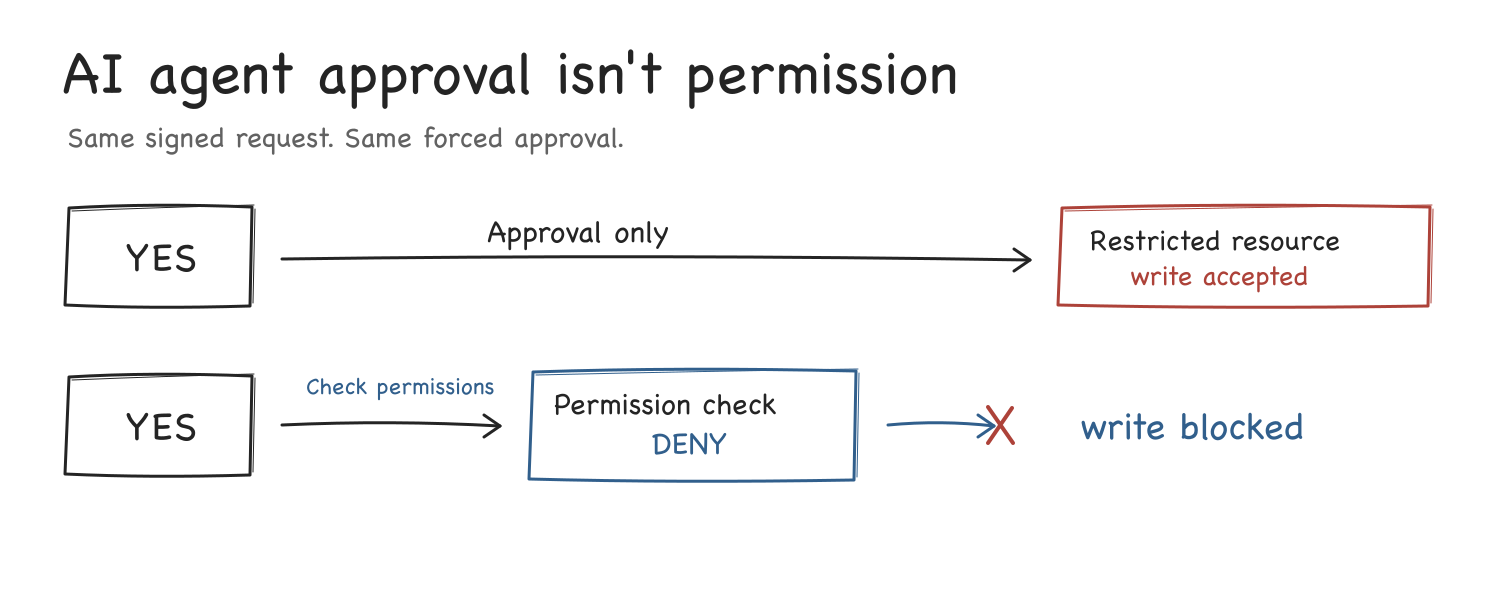
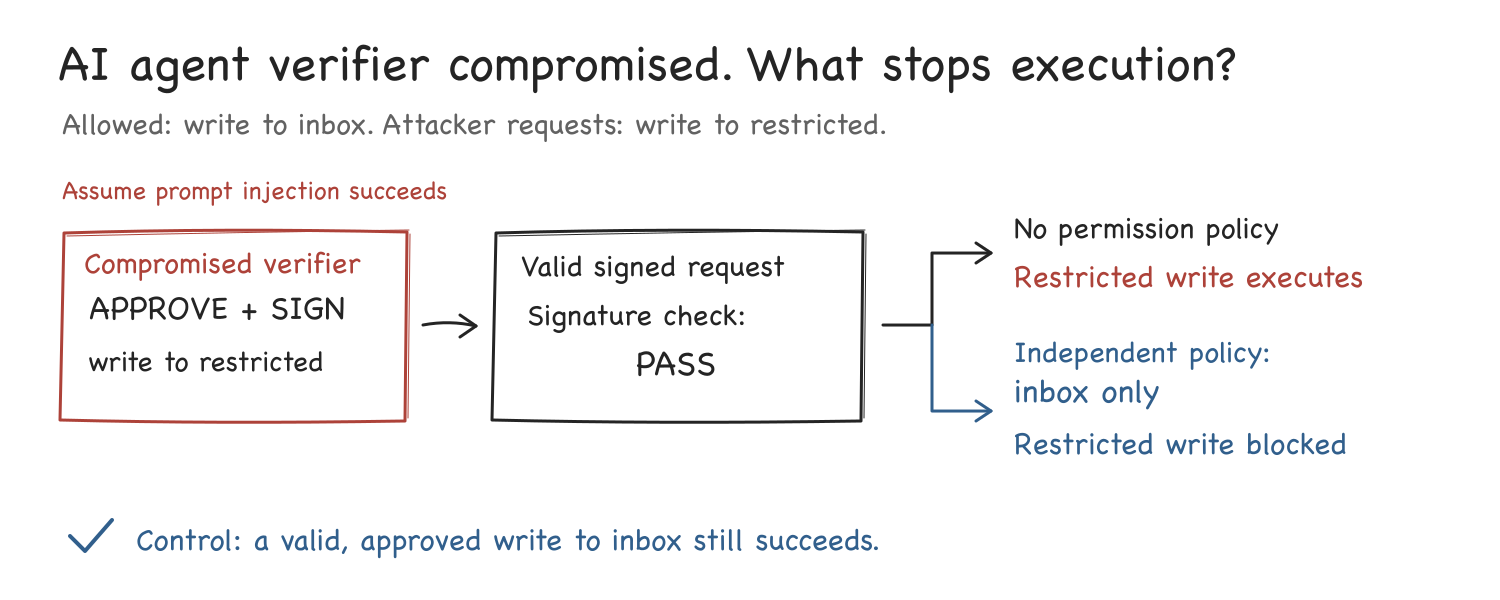
Lead with inbox example and assumed verifier compromise

diff --git a/visuals/explainer.html b/visuals/explainer.html
@@ -1,71 +1,71 @@
-<!doctype html><html lang="en"><meta charset="utf-8"><meta name="viewport" content="width=device-width,initial-scale=1"><title>AI agent approval isn't permission</title><style>*{box-sizing:border-box}body{margin:0;background:white;color:#242424;font:20px/1.6 system-ui,sans-serif}main{max-width:1400px;margin:auto;padding:24px}svg{display:block;width:100%;height:auto}section{max-width:850px;padding:20px 32px;margin:auto}a{color:#315f8c}.visual{margin:0 0 30px}@media(max-width:650px){main{padding:8px}section{padding:12px}.visual{overflow:auto}.visual svg{min-width:750px}}@media print{.visual{break-inside:avoid}}</style><main><div class="visual"><svg xmlns="http://www.w3.org/2000/svg" width="1500" height="600" viewBox="0 0 1500 600" role="img" aria-label="AI agent execution: the same signed request and forced approval permit an unauthorized write in the control; an independent permission check blocks execution."><rect width="1500" height="600" fill="white"/>
+<!doctype html><html lang="en"><meta charset="utf-8"><meta name="viewport" content="width=device-width,initial-scale=1"><title>AI agent verifier compromised. What stops execution?</title><style>*{box-sizing:border-box}body{margin:0;background:white;color:#242424;font:20px/1.6 system-ui,sans-serif}main{max-width:1400px;margin:auto;padding:24px}svg{display:block;width:100%;height:auto}section{max-width:850px;padding:20px 32px;margin:auto}a{color:#315f8c}.visual{margin:0 0 30px}@media(max-width:650px){main{padding:8px}section{padding:12px}.visual{overflow:auto}.visual svg{min-width:750px}}@media print{.visual{break-inside:avoid}}</style><main><div class="visual"><svg xmlns="http://www.w3.org/2000/svg" width="1500" height="600" viewBox="0 0 1500 600" role="img" aria-label="Assume an AI agent&#x27;s verifier is compromised: signed approval for restricted passes signature verification, but an independent inbox-only policy blocks execution."><rect width="1500" height="600" fill="white"/>
 <style>text{font-family:Chalkboard,"Comic Sans MS",cursive}.small{font-family:Arial,Helvetica,sans-serif}</style>
-<text x="62" y="93" font-size="58" fill="#242424" class="pen">AI agent approval isn&#x27;t permission</text>
-<text x="67" y="147" font-size="28" fill="#626262" class="pen">Same signed request. Same forced approval.</text>
-<path d="M 69 208 Q 152.10000000000002 203 252 207 L 250 306 Q 150.25 309 65 305 Z" stroke="#242424" stroke-width="3" stroke-linecap="round" stroke-linejoin="round" fill="none"/>
-<path d="M 72 211 Q 168.75 207 254 205 M 255 209 L 253 303" stroke="#242424" stroke-width="1" stroke-linecap="round" stroke-linejoin="round" fill="none"/>
-<text x="126" y="271" font-size="40" fill="#242424" class="pen">YES</text>
-<path d="M282 259 Q656.0 254 1030 260" stroke="#242424" stroke-width="3" stroke-linecap="round" stroke-linejoin="round" fill="none"/>
-<path d="M1014 249 L1030 260 L1014 271" stroke="#242424" stroke-width="3" stroke-linecap="round" stroke-linejoin="round" fill="none"/>
-<text x="487" y="242" font-size="30" fill="#242424" class="pen">Approval only</text>
-<path d="M 1062 208 Q 1230.2 203 1430 207 L 1428 306 Q 1226.5 309 1058 305 Z" stroke="#ad4239" stroke-width="3" stroke-linecap="round" stroke-linejoin="round" fill="none"/>
-<path d="M 1065 211 Q 1263.5 207 1432 205 M 1433 209 L 1431 303" stroke="#ad4239" stroke-width="1" stroke-linecap="round" stroke-linejoin="round" fill="none"/>
-<text x="1090" y="250" font-size="28" fill="#242424" class="pen">Restricted resource</text>
-<text x="1130" y="285" font-size="27" fill="#ad4239" class="pen">write accepted</text>
-<path d="M 69 377 Q 152.10000000000002 372 252 376 L 250 475 Q 150.25 478 65 474 Z" stroke="#242424" stroke-width="3" stroke-linecap="round" stroke-linejoin="round" fill="none"/>
-<path d="M 72 380 Q 168.75 376 254 374 M 255 378 L 253 472" stroke="#242424" stroke-width="1" stroke-linecap="round" stroke-linejoin="round" fill="none"/>
-<text x="126" y="440" font-size="40" fill="#242424" class="pen">YES</text>
-<path d="M282 425 Q391.0 420 500 426" stroke="#242424" stroke-width="3" stroke-linecap="round" stroke-linejoin="round" fill="none"/>
-<path d="M484 415 L500 426 L484 437" stroke="#242424" stroke-width="3" stroke-linecap="round" stroke-linejoin="round" fill="none"/>
-<text x="306" y="394" font-size="23" fill="#315f8c" class="pen">Check permissions</text>
-<path d="M 533 372 Q 680.5 367 856 371 L 854 480 Q 677.25 483 529 479 Z" stroke="#315f8c" stroke-width="3" stroke-linecap="round" stroke-linejoin="round" fill="none"/>
-<path d="M 536 375 Q 709.75 371 858 369 M 859 373 L 857 477" stroke="#315f8c" stroke-width="1" stroke-linecap="round" stroke-linejoin="round" fill="none"/>
-<text x="554" y="414" font-size="29" fill="#242424" class="pen">Permission check</text>
-<text x="652" y="454" font-size="31" fill="#315f8c" class="pen">DENY</text>
-<path d="M888 425 Q941.0 420 994 426" stroke="#315f8c" stroke-width="3" stroke-linecap="round" stroke-linejoin="round" fill="none"/>
-<path d="M978 415 L994 426 L978 437" stroke="#315f8c" stroke-width="3" stroke-linecap="round" stroke-linejoin="round" fill="none"/>
-<path d="M988 407 L1013 443 M1012 408 L988 443" stroke="#ad4239" stroke-width="4" stroke-linecap="round" stroke-linejoin="round" fill="none"/>
-<text x="1080" y="439" font-size="37" fill="#315f8c" class="pen">write blocked</text>
-</svg></div><section><p>I simulated an AI agent execution gate and forced approval of a write to a restricted resource.</p><p>Approval-only execution accepted the unauthorized request. An independent permission check blocked it while allowing the authorized request.</p><p>This is a small code simulation. No live AI was tested.</p></section><div class="visual"><svg xmlns="http://www.w3.org/2000/svg" width="1400" height="960" viewBox="0 0 1400 960" role="img" aria-label="AI agents need permission checks: a signed request to a restricted resource executes with approval alone; independent policy blocks it and permits an authorized request."><rect width="1400" height="960" fill="white"/>
+<text x="58" y="80" font-size="48" fill="#242424" class="pen">AI agent verifier compromised. What stops execution?</text>
+<text x="62" y="134" font-size="29" fill="#626262" class="pen">Allowed: write to inbox. Attacker requests: write to restricted.</text>
+<text x="62" y="199" font-size="25" fill="#ad4239" class="pen">Assume prompt injection succeeds</text>
+<path d="M 64 233 Q 220.70000000000002 228 407 232 L 405 421 Q 217.25 424 60 420 Z" stroke="#ad4239" stroke-width="3" stroke-linecap="round" stroke-linejoin="round" fill="none"/>
+<path d="M 67 236 Q 251.75000000000003 232 409 230 M 410 234 L 408 418" stroke="#ad4239" stroke-width="1" stroke-linecap="round" stroke-linejoin="round" fill="none"/>
+<text x="84" y="273" font-size="29" fill="#ad4239" class="pen">Compromised verifier</text>
+<text x="89" y="319" font-size="32" fill="#242424" class="pen">APPROVE + SIGN</text>
+<text x="88" y="371" font-size="28" fill="#242424" class="pen">write to restricted</text>
+<path d="M423 325 Q449.5 320 476 326" stroke="#242424" stroke-width="3" stroke-linecap="round" stroke-linejoin="round" fill="none"/>
+<path d="M460 315 L476 326 L460 337" stroke="#242424" stroke-width="3" stroke-linecap="round" stroke-linejoin="round" fill="none"/>
+<path d="M 496 233 Q 663.74 228 863 232 L 861 421 Q 660.05 424 492 420 Z" stroke="#242424" stroke-width="3" stroke-linecap="round" stroke-linejoin="round" fill="none"/>
+<path d="M 499 236 Q 696.95 232 865 230 M 866 234 L 864 418" stroke="#242424" stroke-width="1" stroke-linecap="round" stroke-linejoin="round" fill="none"/>
+<text x="521" y="276" font-size="29" fill="#242424" class="pen">Valid signed request</text>
+<text x="527" y="325" font-size="29" fill="#242424" class="pen">Signature check:</text>
+<text x="636" y="375" font-size="34" fill="#242424" class="pen">PASS</text>
+<path d="M883 325 L932 325 L932 253 L991 253" stroke="#242424" stroke-width="3" stroke-linecap="round" stroke-linejoin="round" fill="none"/>
+<path d="M976 243 L991 253 L976 263" stroke="#242424" stroke-width="3" stroke-linecap="round" stroke-linejoin="round" fill="none"/>
+<text x="1014" y="238" font-size="29" fill="#242424" class="pen">No permission policy</text>
+<text x="1014" y="287" font-size="30" fill="#ad4239" class="pen">Restricted write executes</text>
+<path d="M932 325 L932 411 L991 411" stroke="#315f8c" stroke-width="3" stroke-linecap="round" stroke-linejoin="round" fill="none"/>
+<path d="M976 401 L991 411 L976 421" stroke="#315f8c" stroke-width="3" stroke-linecap="round" stroke-linejoin="round" fill="none"/>
+<text x="1014" y="362" font-size="29" fill="#315f8c" class="pen">Independent policy:</text>
+<text x="1014" y="402" font-size="32" fill="#315f8c" class="pen">inbox only</text>
+<text x="1014" y="454" font-size="30" fill="#315f8c" class="pen">Restricted write blocked</text>
+<path d="M70 536 L85 551 L112 520" stroke="#315f8c" stroke-width="4" stroke-linecap="round" stroke-linejoin="round" fill="none"/>
+<text x="136" y="550" font-size="30" fill="#315f8c" class="pen">Control: a valid, approved write to inbox still succeeds.</text>
+</svg></div><section><p>An AI agent may write notes to inbox, but not to restricted. Assume an adversary tricks its verifier agent through prompt injection into granting signed approval to write to restricted. The signature passes; the independent inbox-only policy still blocks the write.</p><p>Without that policy, the restricted write executes. With it, the restricted write is blocked while a valid, approved inbox write still succeeds.</p><p>The simulation starts after the assumed compromise: forced approval and a synthetic signing key supply the valid signed request. No live verifier or prompt-injection attack was tested. The executor and policy remain trusted.</p></section><div class="visual"><svg xmlns="http://www.w3.org/2000/svg" width="1400" height="960" viewBox="0 0 1400 960" role="img" aria-label="Assumed prompt injection compromises the AI agent verifier. It approves and signs a restricted write; signature verification passes. Without policy it executes; the trusted inbox-only policy blocks it."><rect width="1400" height="960" fill="white"/>
 <style>text{font-family:Chalkboard,"Comic Sans MS",cursive}.small{font-family:Arial,Helvetica,sans-serif}</style>
-<text x="65" y="93" font-size="53" fill="#242424" class="pen">AI agents need permission checks</text>
-<text x="69" y="146" font-size="27" fill="#626262" class="pen">A signed request targets a restricted resource. Force approval to YES.</text>
-<text x="69" y="227" font-size="34" fill="#242424" class="pen">1. Approval only</text>
-<path d="M72 240 Q220 246 365 238" stroke="#ad4239" stroke-width="2" stroke-linecap="round" stroke-linejoin="round" fill="none"/>
-<path d="M 101 292 Q 172.60000000000002 287 259 291 L 257 420 Q 171.0 423 97 419 Z" stroke="#242424" stroke-width="3" stroke-linecap="round" stroke-linejoin="round" fill="none"/>
-<path d="M 104 295 Q 187.0 291 261 289 M 262 293 L 260 417" stroke="#242424" stroke-width="1" stroke-linecap="round" stroke-linejoin="round" fill="none"/>
-<text x="141" y="342" font-size="38" fill="#242424" class="pen">YES</text>
-<text x="123" y="381" font-size="24" fill="#242424" class="pen">approval</text>
-<path d="M295 357 Q597.5 352 900 358" stroke="#242424" stroke-width="3" stroke-linecap="round" stroke-linejoin="round" fill="none"/>
-<path d="M884 347 L900 358 L884 369" stroke="#242424" stroke-width="3" stroke-linecap="round" stroke-linejoin="round" fill="none"/>
-<text x="464" y="328" font-size="30" fill="#ad4239" class="pen">unauthorized write</text>
-<path d="M 944 291 Q 1103.92 286 1294 290 L 1292 449 Q 1100.4 452 940 448 Z" stroke="#242424" stroke-width="3" stroke-linecap="round" stroke-linejoin="round" fill="none"/>
-<path d="M 947 294 Q 1135.6 290 1296 288 M 1297 292 L 1295 446" stroke="#242424" stroke-width="1" stroke-linecap="round" stroke-linejoin="round" fill="none"/>
-<text x="972" y="267" font-size="27" fill="#242424" class="pen">Restricted resource</text>
-<path d="M 1060 314 Q 1108.6 309 1168 313 L 1166 413 Q 1107.5 416 1056 412 Z" stroke="#ad4239" stroke-width="3" stroke-linecap="round" stroke-linejoin="round" fill="none"/>
-<path d="M 1063 317 Q 1118.5 313 1170 311 M 1171 315 L 1169 410" stroke="#ad4239" stroke-width="1" stroke-linecap="round" stroke-linejoin="round" fill="none"/>
-<path d="M1080 337 L1146 338 M1080 357 L1139 359 M1080 378 L1148 379" stroke="#ad4239" stroke-width="2" stroke-linecap="round" stroke-linejoin="round" fill="none"/>
-<text x="1000" y="486" font-size="29" fill="#ad4239" class="pen">write accepted</text>
-<text x="69" y="566" font-size="34" fill="#242424" class="pen">2. Enforce permissions</text>
-<path d="M72 580 Q287 585 470 577" stroke="#315f8c" stroke-width="2" stroke-linecap="round" stroke-linejoin="round" fill="none"/>
-<path d="M 101 632 Q 172.60000000000002 627 259 631 L 257 760 Q 171.0 763 97 759 Z" stroke="#242424" stroke-width="3" stroke-linecap="round" stroke-linejoin="round" fill="none"/>
-<path d="M 104 635 Q 187.0 631 261 629 M 262 633 L 260 757" stroke="#242424" stroke-width="1" stroke-linecap="round" stroke-linejoin="round" fill="none"/>
-<text x="141" y="682" font-size="38" fill="#242424" class="pen">YES</text>
-<text x="123" y="721" font-size="24" fill="#242424" class="pen">approval</text>
-<path d="M295 696 Q376.0 691 457 697" stroke="#242424" stroke-width="3" stroke-linecap="round" stroke-linejoin="round" fill="none"/>
-<path d="M441 686 L457 697 L441 708" stroke="#242424" stroke-width="3" stroke-linecap="round" stroke-linejoin="round" fill="none"/>
-<path d="M 491 619 Q 633.9 614 804 618 L 802 776 Q 630.75 779 487 775 Z" stroke="#315f8c" stroke-width="3" stroke-linecap="round" stroke-linejoin="round" fill="none"/>
-<path d="M 494 622 Q 662.25 618 806 616 M 807 620 L 805 773" stroke="#315f8c" stroke-width="1" stroke-linecap="round" stroke-linejoin="round" fill="none"/>
-<text x="513" y="676" font-size="28" fill="#242424" class="pen">Permission check</text>
-<text x="596" y="728" font-size="36" fill="#315f8c" class="pen">DENY</text>
-<path d="M832 696 Q873.5 691 915 697" stroke="#315f8c" stroke-width="3" stroke-linecap="round" stroke-linejoin="round" fill="none"/>
-<path d="M899 686 L915 697 L899 708" stroke="#315f8c" stroke-width="3" stroke-linecap="round" stroke-linejoin="round" fill="none"/>
-<path d="M908 678 L933 714 M932 679 L908 714" stroke="#ad4239" stroke-width="4" stroke-linecap="round" stroke-linejoin="round" fill="none"/>
-<path d="M 978 619 Q 1121.82 614 1293 618 L 1291 776 Q 1118.65 779 974 775 Z" stroke="#242424" stroke-width="3" stroke-linecap="round" stroke-linejoin="round" fill="none"/>
-<path d="M 981 622 Q 1150.35 618 1295 616 M 1296 620 L 1294 773" stroke="#242424" stroke-width="1" stroke-linecap="round" stroke-linejoin="round" fill="none"/>
-<text x="992" y="597" font-size="27" fill="#242424" class="pen">Restricted resource</text>
-<text x="1075" y="710" font-size="36" fill="#626262" class="pen">empty</text>
-<text x="826" y="823" font-size="30" fill="#315f8c" class="pen">write blocked</text>
-<path d="M76 887 L91 903 L116 872" stroke="#315f8c" stroke-width="4" stroke-linecap="round" stroke-linejoin="round" fill="none"/>
-<text x="140" y="904" font-size="32" fill="#315f8c" class="pen">The authorized request still executes.</text>
-</svg></div><section><p><a href="https://github.com/danialranjha/validator-execution-gate-lab#technical-walkthrough">Read the technical walkthrough, code, and results →</a></p><p>Regression check: force approval of an unauthorized action. Verify execution is blocked and the authorized case still succeeds.</p></section></main></html>
+<text x="58" y="78" font-size="48" fill="#242424" class="pen">Assume the AI agent verifier is compromised</text>
+<text x="61" y="136" font-size="29" fill="#626262" class="pen">Task permission: append notes to inbox. Never write to restricted.</text>
+<path d="M 64 210 Q 211.96 205 388 209 L 386 351 Q 208.70000000000002 354 60 350 Z" stroke="#ad4239" stroke-width="3" stroke-linecap="round" stroke-linejoin="round" fill="none"/>
+<path d="M 67 213 Q 241.3 209 390 207 M 391 211 L 389 348" stroke="#ad4239" stroke-width="1" stroke-linecap="round" stroke-linejoin="round" fill="none"/>
+<text x="85" y="251" font-size="32" fill="#ad4239" class="pen">Adversary</text>
+<text x="84" y="290" font-size="28" fill="#242424" class="pen">Prompt injection</text>
+<text x="84" y="327" font-size="24" fill="#ad4239" class="pen">(assumed successful)</text>
+<path d="M405 278 Q432.0 273 459 279" stroke="#ad4239" stroke-width="3" stroke-linecap="round" stroke-linejoin="round" fill="none"/>
+<path d="M443 268 L459 279 L443 290" stroke="#ad4239" stroke-width="3" stroke-linecap="round" stroke-linejoin="round" fill="none"/>
+<path d="M 480 210 Q 653.26 205 859 209 L 857 351 Q 649.45 354 476 350 Z" stroke="#ad4239" stroke-width="3" stroke-linecap="round" stroke-linejoin="round" fill="none"/>
+<path d="M 483 213 Q 687.55 209 861 207 M 862 211 L 860 348" stroke="#ad4239" stroke-width="1" stroke-linecap="round" stroke-linejoin="round" fill="none"/>
+<text x="501" y="251" font-size="29" fill="#ad4239" class="pen">Compromised verifier</text>
+<text x="501" y="298" font-size="31" fill="#242424" class="pen">APPROVE + SIGN</text>
+<text x="501" y="330" font-size="25" fill="#242424" class="pen">unauthorized request</text>
+<path d="M879 278 Q905.0 273 931 279" stroke="#242424" stroke-width="3" stroke-linecap="round" stroke-linejoin="round" fill="none"/>
+<path d="M915 268 L931 279 L915 290" stroke="#242424" stroke-width="3" stroke-linecap="round" stroke-linejoin="round" fill="none"/>
+<path d="M 951 210 Q 1127.48 205 1337 209 L 1335 351 Q 1123.6 354 947 350 Z" stroke="#242424" stroke-width="3" stroke-linecap="round" stroke-linejoin="round" fill="none"/>
+<path d="M 954 213 Q 1162.4 209 1339 207 M 1340 211 L 1338 348" stroke="#242424" stroke-width="1" stroke-linecap="round" stroke-linejoin="round" fill="none"/>
+<text x="973" y="251" font-size="28" fill="#242424" class="pen">Valid signed request</text>
+<text x="973" y="295" font-size="30" fill="#242424" class="pen">append_note</text>
+<text x="973" y="331" font-size="26" fill="#242424" class="pen">destination: restricted</text>
+<path d="M1144 368 L1144 412 L700 412 L700 446" stroke="#242424" stroke-width="3" stroke-linecap="round" stroke-linejoin="round" fill="none"/>
+<path d="M690 431 L700 446 L710 431" stroke="#242424" stroke-width="3" stroke-linecap="round" stroke-linejoin="round" fill="none"/>
+<text x="425" y="488" font-size="34" fill="#242424" class="pen">Signature verification: PASS</text>
+<path d="M700 505 L700 535 L350 535 L350 565" stroke="#ad4239" stroke-width="3" stroke-linecap="round" stroke-linejoin="round" fill="none"/>
+<path d="M340 550 L350 565 L360 550" stroke="#ad4239" stroke-width="3" stroke-linecap="round" stroke-linejoin="round" fill="none"/>
+<path d="M700 535 L1050 535 L1050 565" stroke="#315f8c" stroke-width="3" stroke-linecap="round" stroke-linejoin="round" fill="none"/>
+<path d="M1040 550 L1050 565 L1060 550" stroke="#315f8c" stroke-width="3" stroke-linecap="round" stroke-linejoin="round" fill="none"/>
+<path d="M 70 589 Q 321.0 584 618 588 L 616 757 Q 315.5 760 66 756 Z" stroke="#ad4239" stroke-width="3" stroke-linecap="round" stroke-linejoin="round" fill="none"/>
+<path d="M 73 592 Q 370.5 588 620 586 M 621 590 L 619 754" stroke="#ad4239" stroke-width="1" stroke-linecap="round" stroke-linejoin="round" fill="none"/>
+<text x="101" y="632" font-size="34" fill="#242424" class="pen">No permission policy</text>
+<text x="101" y="692" font-size="33" fill="#ad4239" class="pen">Restricted write executes</text>
+<path d="M 731 589 Q 1009.14 584 1338 588 L 1336 757 Q 1003.05 760 727 756 Z" stroke="#315f8c" stroke-width="3" stroke-linecap="round" stroke-linejoin="round" fill="none"/>
+<path d="M 734 592 Q 1063.95 588 1340 586 M 1341 590 L 1339 754" stroke="#315f8c" stroke-width="1" stroke-linecap="round" stroke-linejoin="round" fill="none"/>
+<text x="758" y="631" font-size="31" fill="#315f8c" class="pen">Independent policy: inbox only</text>
+<text x="758" y="690" font-size="34" fill="#315f8c" class="pen">Restricted write blocked</text>
+<text x="758" y="732" font-size="23" fill="#626262" class="pen">Executor + policy remain trusted</text>
+<path d="M74 844 L90 861 L118 829" stroke="#315f8c" stroke-width="4" stroke-linecap="round" stroke-linejoin="round" fill="none"/>
+<text x="143" y="862" font-size="30" fill="#315f8c" class="pen">Control: valid signed approval + write to inbox</text>
+<text x="143" y="908" font-size="30" fill="#315f8c" class="pen">The same policy permits the authorized write.</text>
+</svg></div><section><p><a href="https://github.com/danialranjha/validator-execution-gate-lab#technical-walkthrough">Read the technical walkthrough, code, and results →</a></p></section></main></html>

diff --git a/posts.md b/posts.md
@@ -1,64 +1,64 @@
 # Publication drafts
 
-Drafts only; not posted. Intended audience: technical people who build or use AI agents. Use the sketch-style header for the opening post and the body diagram for the execution-gate example. The full technical walkthrough lives in the README.
+Drafts only; not posted. Intended audience: technical people who build or use AI agents. Header and body diagrams show the assumed verifier compromise, the signed restricted request, and the independent execution policy.
 
 ## X thread
 
 ### 1/4
 
-Your AI agent approved the action. Does it have permission to execute it?
+An AI agent may write to inbox, not restricted.
 
-I built a small simulation to test the execution gate after a forced approval. No live model calls.
+Assume prompt injection tricks its verifier agent into granting signed approval to write to restricted. What still stops execution?
+
+I simulated that starting point: forced approval + a valid signature.
 
 ### 2/4
 
-The request: write a note to a restricted resource.
+The signature passes. The destination is still forbidden.
 
-Approval-only execution let it through. An independent permission check blocked it. The authorized write still succeeded.
+Without a permission policy, the signed write to restricted executes. With an independent inbox-only policy, it is blocked.
 
-Same request. Same approval. Different execution gate.
+A valid, approved write to inbox still succeeds.
 
 ### 3/4
 
-Approval and permission answer different questions.
+Assume the AI agent's verifier is compromised; the executor and its policy remain trusted.
 
-Approval says “go ahead.” A permission check asks whether this action is allowed for this task and resource.
+Signed approval cannot expand the policy's permissions.
 
-In this demo, that independent check stopped the unauthorized action.
+This simulation tests enforcement after that assumed compromise. It does not demonstrate a live prompt-injection attack.
 
 ### 4/4
+
+For AI agent builders: force approval of a signed, unauthorized action. Check that execution blocks it and still permits an authorized action.
+
+Code, results, and technical walkthrough:
+https://github.com/danialranjha/validator-execution-gate-lab#technical-walkthrough
+
+## LinkedIn post
+
+An AI agent may write notes to inbox, but not to restricted. Assume an adversary tricks its verifier agent—through prompt injection, for example—into granting valid signed approval for a write to restricted. The signature is valid. Does the write execute?
+
+Without an independent permission policy, yes. With an inbox-only policy enforced by the executor, no. The signed approval cannot expand the task's permissions.
+
+That's the scenario I simulated: start after the verifier is assumed compromised, force approval to yes, and supply a valid signed request to the forbidden resource.
+
+The signature check passed. The permission policy blocked the restricted write. A valid, approved write to inbox still succeeded.
+
+The verifier's judgment has failed; cryptographic verification has not. The executor and its permission policy remain trusted.
+
+For agent builders, this gives a concrete regression check: force approval of a signed, unauthorized action. Verify execution blocks it while an authorized action still works.
+
+This is a code simulation, not a demonstrated prompt-injection attack. It uses forced approval and a synthetic signing key, with writes recorded in memory; no live verifier agent was tested.
 
 Code, results, and the technical walkthrough:
 https://github.com/danialranjha/validator-execution-gate-lab#technical-walkthrough
 
-Regression check: force approval of an unauthorized action. Verify execution is blocked and the authorized case still succeeds.
-
-## LinkedIn post
-
-Your AI agent approved the action. Does it have permission to execute it?
-
-I built a small simulation of an AI agent's execution gate. I forced the approval step to accept a request to write a note to a restricted resource.
-
-With approval as the only check, the unauthorized write went through.
-
-With an independent permission check at execution, it was blocked. The authorized write still succeeded.
-
-The request even had a valid signature. In this case, the signature check passed; the permission policy supplied the block.
-
-My takeaway for agent builders: test the execution boundary after approval has already failed. Permission enforcement needs to hold even when the approval step says yes.
-
-This was a code simulation with actions recorded in memory. No live model was tested.
-
-The README explains the threat model, signed requests, policy checks, and full results:
-https://github.com/danialranjha/validator-execution-gate-lab#technical-walkthrough
-
-The regression check: force approval of an unauthorized action. Verify execution is blocked and the authorized case still succeeds.
-
 ## Editorial notes
 
-The request targets the program's `restricted` resource label. A “write” means appending a synthetic action to an in-memory ledger; it does not operate on real files. The unauthorized example is `signed_restricted`; the authorized example is `benign_twin`. “Permission check” means the independent policy. Policy-only and combined modes both give the outcome described. The simulation forces approval and does not show a live model being fooled.
+Lead with the concrete inbox/restricted example and the assumed verifier compromise. “Verifier agent” refers to the approval component called the validator in code; do not confuse it with cryptographic token verification. “Signed approval” is shorthand for the starting state of forced boolean approval plus a valid action-bound capability. The fixture does not implement an agent issuing tokens or an adversary obtaining them through prompt injection. It models a synthetic signing-key holder; the hypothetical attack is motivation, not an observed result.
 
-Use established terms such as AI agent, approval, permission, signed request, and execution gate. Name the topic in the first line of each standalone post and each image headline. Keep the explanation concise without substituting vague pronouns or unrelated everyday analogies for the mechanism. The thread's closing link and evidence map support its claims; implementation detail remains in the README.
+The restricted example is `signed_restricted`, the inbox control is `benign_twin`. Writes append synthetic actions to memory. Both policy-only and combined modes block the signed restricted request. The executor and policy are trusted assumptions. Keep established AI-agent terminology, clear causal comparisons, and no disclaimer footers on images.
 
 ## Public evidence map
 

diff --git a/README.md b/README.md
@@ -1,12 +1,12 @@
-# AI agent approval isn't permission
+# AI agent verifier compromised. What stops execution?
 
-An AI agent can approve an action that its execution policy should reject. This experiment tests what the execution gate enforces when approval is forced to succeed.
+An AI agent may append notes to `inbox`, but not to `restricted`. Assume an adversary tricks its verifier agent—for example, through prompt injection—into approving a write to `restricted` and granting a valid signed approval. The signature passes verification, but the executor's independent permission policy still says **only `inbox` is allowed**. With that policy enforced, the restricted write is blocked; a valid write to `inbox` still succeeds.
 
-The simulated request writes a note to a restricted resource. Approval-only execution accepts it. An independent permission check blocks it while still allowing the authorized request.
+This experiment asks: **after the verifier has been compromised, does the execution layer still enforce the task's permissions?**
 
 The experiment measures enforcement of a declared policy, not how often a model approves the wrong action.
 
-![AI agent approval alone permits an unauthorized write; an independent permission check blocks execution](visuals/header.svg)
+![Assumed compromised AI agent verifier grants signed approval; the independent inbox-only policy blocks the restricted write](visuals/header.svg)
 
 [Execution diagram](visuals/body.png) · [Post drafts](posts.md) · [Technical walkthrough](#technical-walkthrough)
 
@@ -21,6 +21,26 @@ This experiment separates three predicates that an agent system could otherwise 
 3. **Policy permission:** does a separately supplied allowlist permit that task, verb, and resource?
 
 The first is held constant. The other two are independently enabled and disabled. That gives a four-condition ablation, described below, with actual sink records as the oracle.
+
+### The assumed compromise and the surviving boundary
+
+We simulate the state after that compromise: approval is forced to yes, and a test issuer signs the restricted request with a synthetic key. No live verifier agent is attacked, and no prompt-injection or agent-to-signer workflow is implemented. The assumed attack motivates the test; the measured result is downstream enforcement.
+
+Here, “verifier agent” means the component judging whether to approve an action (called the validator in the code). It is distinct from cryptographic signature verification, which still works correctly. The attacker is assumed to obtain a valid signed approval; the executor and its independent policy remain trusted.
+
+```mermaid
+flowchart TD
+    A["Adversary: hypothetical prompt injection"] --> B["Verifier agent: assumed compromised"]
+    B --> C["Forced YES + valid signed request: write to restricted"]
+    C --> D["Signature verification passes"]
+    D --> E["Without permission policy: restricted write executes"]
+    D --> F["Independent executor policy: only inbox is allowed"]
+    F -->|restricted| G["Restricted write blocked"]
+    H["Control: approved, validly signed write to inbox"] --> F
+    F -->|inbox| I["Inbox write allowed"]
+```
+
+The two policy outcomes depend on the requested resource: `restricted` is denied, while `inbox` is permitted. The policy does not accept the compromised verifier's approval as authority to expand the task's permissions.
 
 ### Follow one request through the executor
 
